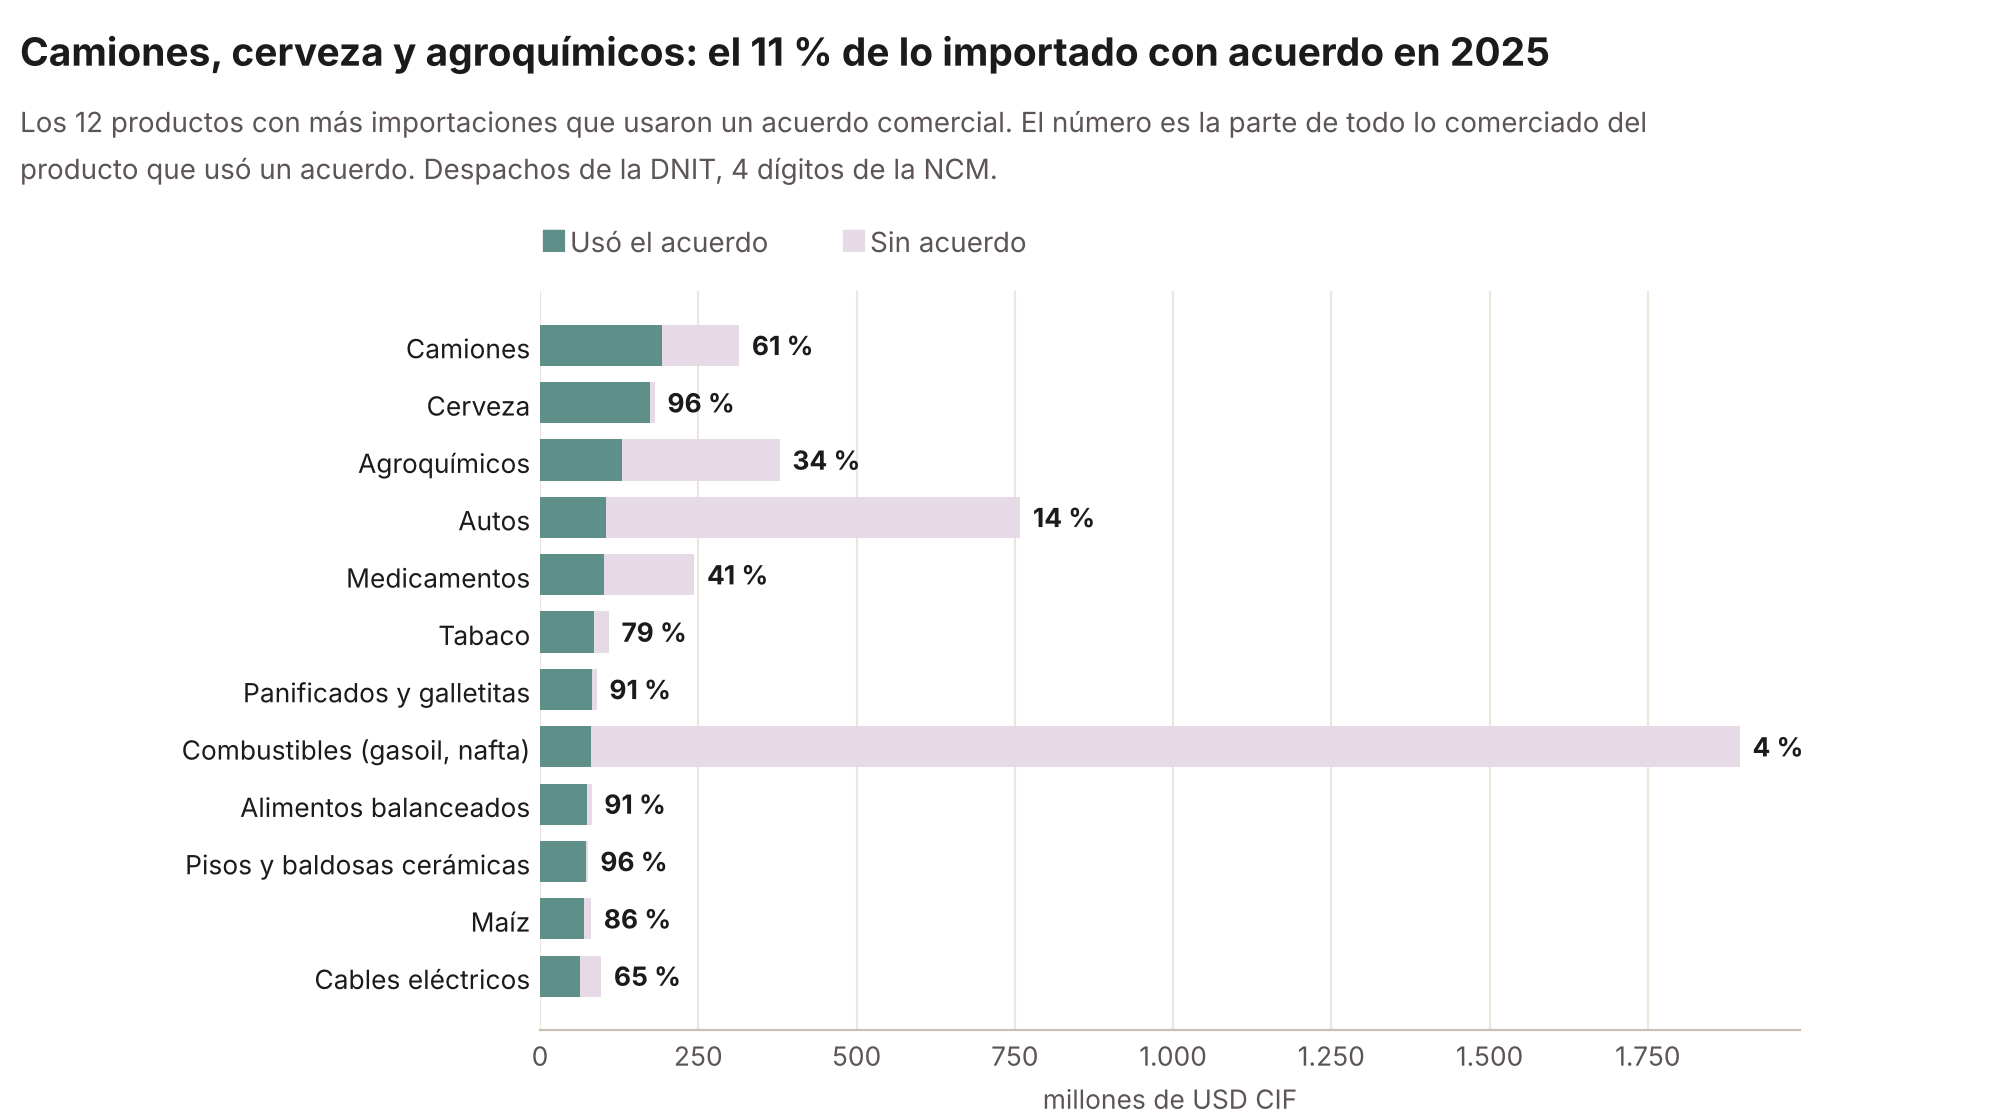
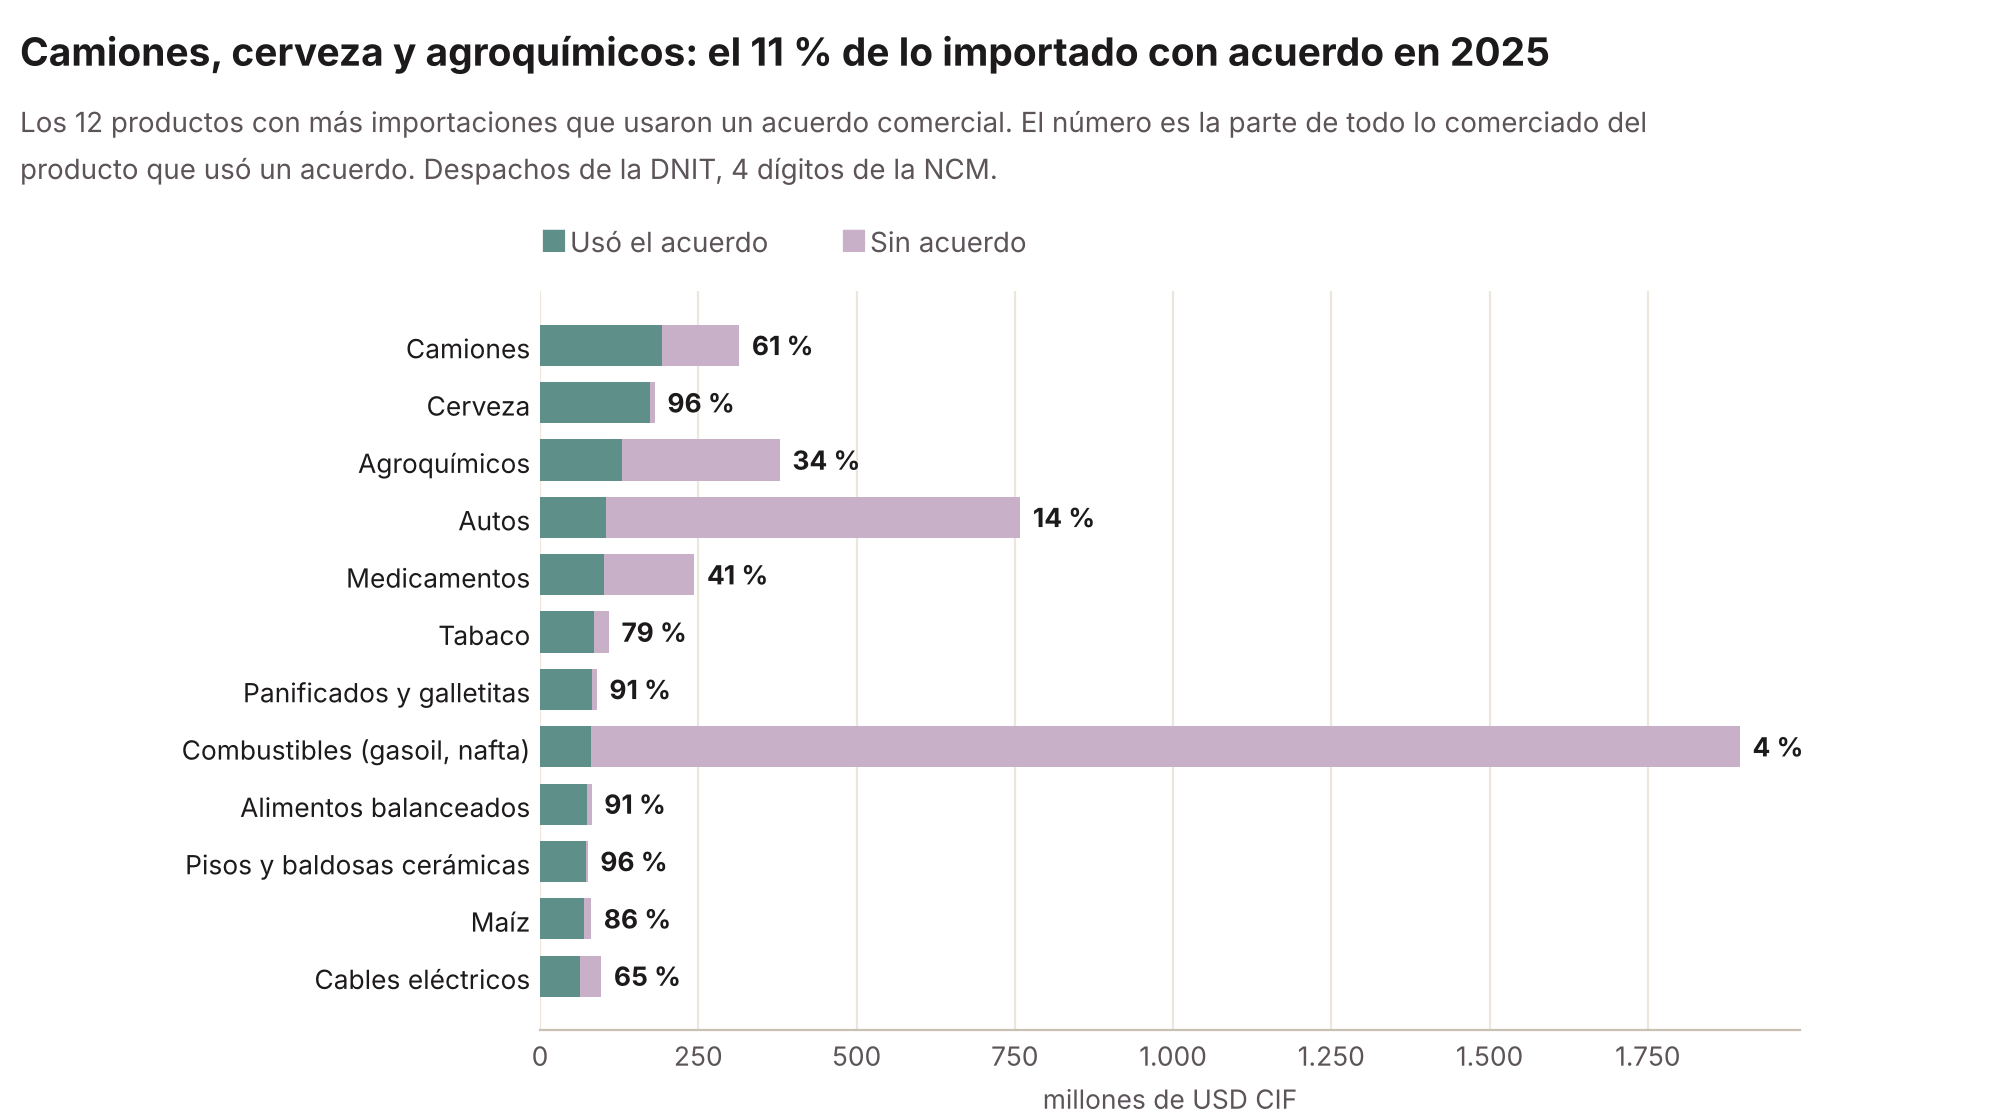
Gráfico de las fuentes en tres paneles contra el BCP; lila de 'sin acuerdo' más oscuro

diff --git a/docs/index.html b/docs/index.html
@@ -43,17 +43,17 @@
 <style>
 :root {
   --bg: #fdfaf3; --panel: #ffffff; --text: #1d1a1c; --text2: #5c5459; --line: #e9e1d3;
-  --s1: #5e8f88; --s2: #e6dae7; --s3: #774d78; --s4: #8db2ac; --accent: #3f6b65; --code: #f7f1e6; --link: #3f6b65; --btn: #5e8f88; --btntext: #08261f; --hero1: #b7d0cc; --hero2: #e6dae7;
+  --s1: #5e8f88; --s2: #c7b0c8; --s3: #774d78; --s4: #8db2ac; --accent: #3f6b65; --code: #f7f1e6; --link: #3f6b65; --btn: #5e8f88; --btntext: #08261f; --hero1: #b7d0cc; --hero2: #e6dae7;
 }
 @media (prefers-color-scheme: dark) {
   :root:not([data-theme="light"]) {
     --bg: #161314; --panel: #201b1d; --text: #f5eef1; --text2: #bfb3b8; --line: #3a2f33;
-    --s1: #5e8f88; --s2: #4a3a4d; --s3: #af8eb1; --s4: #b7d0cc; --accent: #8db2ac; --code: #2a2225; --link: #8db2ac; --btn: #5e8f88; --btntext: #08261f; --hero1: #24403c; --hero2: #3a2a3b;
+    --s1: #5e8f88; --s2: #6a546d; --s3: #af8eb1; --s4: #b7d0cc; --accent: #8db2ac; --code: #2a2225; --link: #8db2ac; --btn: #5e8f88; --btntext: #08261f; --hero1: #24403c; --hero2: #3a2a3b;
   }
 }
 :root[data-theme="dark"] {
   --bg: #161314; --panel: #201b1d; --text: #f5eef1; --text2: #bfb3b8; --line: #3a2f33;
-  --s1: #5e8f88; --s2: #4a3a4d; --s3: #af8eb1; --s4: #b7d0cc; --accent: #8db2ac; --code: #2a2225; --link: #8db2ac; --btn: #5e8f88; --btntext: #08261f; --hero1: #24403c; --hero2: #3a2a3b;
+  --s1: #5e8f88; --s2: #6a546d; --s3: #af8eb1; --s4: #b7d0cc; --accent: #8db2ac; --code: #2a2225; --link: #8db2ac; --btn: #5e8f88; --btntext: #08261f; --hero1: #24403c; --hero2: #3a2a3b;
 }
 * { box-sizing: border-box; }
 html { -webkit-text-size-adjust: 100%; }
@@ -142,6 +142,9 @@ footer { margin-top: 48px; padding: 28px 0 48px; border-top: 1px solid var(--lin
   .tw { overflow: visible; }
 }
 .contador[hidden] { display: none; }
+.paneles { display: grid; grid-template-columns: repeat(3, 1fr); gap: 8px; }
+@media (max-width: 760px) { .paneles { grid-template-columns: 1fr; } }
+.panel-tit { font-size: 14px; font-weight: 700; margin: 0 0 2px; }
 .contador { display: inline-block; margin: 12px 0 0; padding: 4px 12px; border-radius: 99px; background: var(--tag, #e6dae7); color: var(--tagtext, #4f3050); font-size: 13px; }
 .comentar { margin: 40px auto 0; max-width: 960px; padding: 0 16px; }
 .comentar .caja { border: 1.5px dashed #8db2ac; border-radius: 12px; padding: 18px 20px; }
@@ -335,14 +338,8 @@ footer { margin-top: 48px; padding: 28px 0 48px; border-top: 1px solid var(--lin
     <h2>Cinco series de cuatro instituciones cuentan casi lo mismo: los datos abiertos de aduanas son confiables</h2>
     <p>Las exportaciones de Paraguay se pueden medir con cinco series de cuatro instituciones: la DNIT, la VUE (Ministerio de Industria y Comercio), el BCP (con dos series: la mensual y la detallada por producto y país) y UN Comtrade. Sin la electricidad (que no pasa por la aduana), los despachos de la DNIT quedan entre el 94 % y el 101 % de las <strong>exportaciones registradas</strong> del BCP en todos los años (es decir, sin las reexportaciones, que el BCP publica aparte, y sin electricidad), y lo que los demás países declaran haber comprado a Paraguay (datos espejo) entre el 94 % y el 106 %. La VUE se aparta en 2022 por un error en sus archivos y, desde 2023, cubre menos. Además, la serie detallada del BCP por producto y país (1994–2023) coincide con lo que Paraguay informa a UN Comtrade en los 30 años, y con la DNIT en el total y en los productos. Los diez cruces de a pares entre las cinco fuentes, con las mayores diferencias y sus explicaciones, están en un Excel: <a href="datos/Cruces_5_fuentes_comercio_Paraguay.xlsx" download>Cruces de las 5 fuentes</a>.</p>
     <div class="card">
-      <div class="legend">
-        <span><span class="sw line" style="background:var(--text)"></span>BCP, exportaciones registradas</span>
-        <span><span class="sw line" style="background:var(--s1)"></span>DNIT, despachos</span>
-        <span><span class="sw line" style="background:var(--s3)"></span>VUE, certificados de origen</span>
-        <span><span class="sw line" style="background:var(--s4)"></span>Espejo, lo que declaran los socios</span>
-      </div>
-      <div id="chart2" role="img" aria-label="Gráfico de líneas que compara las exportaciones de Paraguay según el BCP, la DNIT, la VUE y los datos espejo, 2011 a 2026"></div>
-      <p class="note">Millones de USD, sin electricidad. DNIT, VUE y BCP en FOB; el espejo en CIF (incluye flete y seguro hasta el comprador). 2026*: enero a septiembre; el espejo de 2026 todavía no existe. En 2022 los archivos de la VUE tienen un error: las partes de calzado (partida 6406) vendidas a Brasil figuran con USD 1.078 millones en octubre y 2.943 millones en noviembre, con solo 57 y 42 toneladas, y los plásticos (partida 3904) con USD 230 millones y 183 toneladas. Por eso la VUE de 2022 supera al BCP. Fuentes: DNIT; VUE (origen de los datos: Ministerio de Industria y Comercio); BCP (SICEX); UN Comtrade. Datos: <a href="datos/utilizacion_por_anio.csv" download>CSV</a> · <a href="datos/utilizacion_por_anio.xlsx" download>Excel</a>. Elaboración propia.</p>
+      <div id="chart2" class="paneles" role="img" aria-label="Tres gráficos de líneas, 2011 a 2026: las exportaciones de Paraguay según la DNIT, los datos espejo y la VUE, cada una comparada con el BCP"><div id="chart2a"></div><div id="chart2b"></div><div id="chart2c"></div></div>
+      <p class="note">Línea gris: BCP, exportaciones registradas (la misma en los tres). Millones de USD, sin electricidad. DNIT, VUE y BCP en FOB; el espejo en CIF (incluye flete y seguro hasta el comprador). 2026*: enero a septiembre; el espejo de 2026 todavía no existe. En 2022 los archivos de la VUE tienen un error: las partes de calzado (partida 6406) vendidas a Brasil figuran con USD 1.078 millones en octubre y 2.943 millones en noviembre, con solo 57 y 42 toneladas, y los plásticos (partida 3904) con USD 230 millones y 183 toneladas. Por eso la VUE de 2022 supera al BCP. Fuentes: DNIT; VUE (origen de los datos: Ministerio de Industria y Comercio); BCP (SICEX); UN Comtrade. Datos: <a href="datos/utilizacion_por_anio.csv" download>CSV</a> · <a href="datos/utilizacion_por_anio.xlsx" download>Excel</a>. Elaboración propia.</p>
     </div>
     <div class="tw">
       <table id="tabla"></table>
@@ -481,14 +478,14 @@ function ejeX(f, xs) {
     el("text", {x: xs(i), y: f.h - 8, "text-anchor": "middle"}, f.svg).textContent = f.narrow ? "'" + anio(r).slice(2) : anio(r);
   });
 }
-function linea(f, xs, ys, g, color, guiones) {
+function linea(f, xs, ys, g, color, guiones, grosor = 2.5, radio = 3) {
   let tramo = [];
-  const pintar = () => { if (tramo.length > 1) el("polyline", {points: tramo.join(" "), fill: "none", stroke: color, "stroke-width": 2.5, "stroke-linejoin": "round", "stroke-dasharray": guiones || "none"}, f.svg); tramo = []; };
+  const pintar = () => { if (tramo.length > 1) el("polyline", {points: tramo.join(" "), fill: "none", stroke: color, "stroke-width": grosor, "stroke-linejoin": "round", "stroke-dasharray": guiones || "none"}, f.svg); tramo = []; };
   D.forEach((r, i) => {
     const v = g(r);
     if (v === null) { pintar(); return; }
     tramo.push(`${xs(i)},${ys(v)}`);
-    el("circle", {cx: xs(i), cy: ys(v), r: 3, fill: color}, f.svg);
+    if (radio) el("circle", {cx: xs(i), cy: ys(v), r: radio, fill: color}, f.svg);
   });
   pintar();
 }
@@ -517,17 +514,26 @@ function dibujar() {
     el("text", {x: f.W - f.m.r + 6, y: yp(p) + 4}, f.svg).textContent = p + "%";
   ejeX(f, xs);
 
-  // Gráfico 2: cuatro fuentes
-  f = marco("chart2", 290, false);
-  const max2 = 12500, bw2 = f.iw / D.length;
-  const xs2 = i => f.m.l + bw2 * (i + .5);
-  const ys2 = v => f.m.t + f.ih - v / max2 * f.ih;
-  ejeY(f, max2, 2500);
-  linea(f, xs2, ys2, r => r[5], "var(--s4)", "6 4");
-  linea(f, xs2, ys2, r => r[3], "var(--s3)");
-  linea(f, xs2, ys2, r => r[1] + r[2], "var(--s1)");
-  linea(f, xs2, ys2, r => r[4], "var(--text)");
-  ejeX(f, xs2);
+  // Gráfico 2: tres paneles, cada fuente contra el BCP (gris). Paneles chicos en vez de cuatro líneas encimadas.
+  [["chart2a", "DNIT, despachos", r => r[1] + r[2], "var(--s1)"],
+   ["chart2b", "Espejo, lo que declaran los socios", r => r[5], "var(--accent)"],
+   ["chart2c", "VUE, certificados de origen", r => r[3], "var(--s3)"]].forEach(([id, nombre, g, color]) => {
+    const host = document.getElementById(id);
+    host.innerHTML = "";
+    const tit = document.createElement("p"); tit.className = "panel-tit"; tit.style.color = color;
+    tit.innerHTML = nombre + ' <span style="color:var(--text2);font-weight:400">vs. BCP</span>';
+    host.appendChild(tit);
+    const caja = document.createElement("div"); caja.id = id + "-g"; host.appendChild(caja);
+    const f2 = marco(id + "-g", 210, false);
+    f2.narrow = f2.W < 420;
+    const max2 = 12500, bw2 = f2.iw / D.length;
+    const xs2 = i => f2.m.l + bw2 * (i + .5);
+    const ys2 = v => f2.m.t + f2.ih - v / max2 * f2.ih;
+    ejeY(f2, max2, 2500);
+    linea(f2, xs2, ys2, r => r[4], "var(--text2)", null, 1.5, 0);
+    linea(f2, xs2, ys2, g, color, null, 3.5, 3);
+    ejeX(f2, xs2);
+  });
 }
 dibujar();
 let t; addEventListener("resize", () => { clearTimeout(t); t = setTimeout(dibujar, 150); });
@@ -598,7 +604,7 @@ document.getElementById("tabla").innerHTML =
     const max = Math.max(...p.t.map(v => v || 0)) || 1, bw = W / C.anios.length;
     C.anios.forEach((an, k) => {
       const tt = p.t[k] || 0, cc = p.a[k] || 0, x = k * bw + bw * .15, w = bw * .7, base = H - 18;
-      const hT = tt / max * (H - 30), hC = cc / max * (H - 30), op = k === i ? 1 : .45;
+      const hT = tt / max * (H - 30), hC = cc / max * (H - 30), op = k === i ? 1 : .6;
       el("rect", {x, y: base - hT, width: w, height: hT - hC, fill: "var(--s2)", opacity: op, rx: 2}, svg);
       el("rect", {x, y: base - hC, width: w, height: hC, fill: "var(--s1)", opacity: op, rx: 2}, svg);
       const lejos = Math.abs(k - i) > (W < 500 ? 3 : 1);  // que las etiquetas no se pisen
@@ -664,7 +670,7 @@ document.getElementById("tabla").innerHTML =
     const max = Math.max(...p.t.map(v => v || 0)) || 1, bw = W / P.anios.length;
     P.anios.forEach((an, k) => {
       const tt = p.t[k] || 0, cc = p.a[k] || 0, x = k * bw + bw * .15, w = bw * .7, base = H - 18;
-      const hT = tt / max * (H - 28), hC = cc / max * (H - 28), o = k === i ? 1 : .45;
+      const hT = tt / max * (H - 28), hC = cc / max * (H - 28), o = k === i ? 1 : .6;
       el("rect", {x, y: base - hT, width: w, height: Math.max(hT - hC, 0), fill: "var(--s2)", opacity: o, rx: 2}, svg);
       el("rect", {x, y: base - hC, width: w, height: hC, fill: "var(--s1)", opacity: o, rx: 2}, svg);
       const lejos = Math.abs(k - i) > (W < 500 ? 3 : 1);

diff --git a/docs/aduana.html b/docs/aduana.html
@@ -17,17 +17,17 @@
 <style>
 :root {
   --bg: #fdfaf3; --panel: #ffffff; --text: #1d1a1c; --text2: #5c5459; --line: #e9e1d3;
-  --s1: #5e8f88; --s2: #e6dae7; --s3: #774d78; --s4: #8db2ac; --accent: #3f6b65; --code: #f7f1e6; --link: #3f6b65; --btn: #5e8f88; --btntext: #08261f; --hero1: #b7d0cc; --hero2: #e6dae7;
+  --s1: #5e8f88; --s2: #c7b0c8; --s3: #774d78; --s4: #8db2ac; --accent: #3f6b65; --code: #f7f1e6; --link: #3f6b65; --btn: #5e8f88; --btntext: #08261f; --hero1: #b7d0cc; --hero2: #e6dae7;
 }
 @media (prefers-color-scheme: dark) {
   :root:not([data-theme="light"]) {
     --bg: #161314; --panel: #201b1d; --text: #f5eef1; --text2: #bfb3b8; --line: #3a2f33;
-    --s1: #5e8f88; --s2: #4a3a4d; --s3: #af8eb1; --s4: #b7d0cc; --accent: #8db2ac; --code: #2a2225; --link: #8db2ac; --btn: #5e8f88; --btntext: #08261f; --hero1: #24403c; --hero2: #3a2a3b;
+    --s1: #5e8f88; --s2: #6a546d; --s3: #af8eb1; --s4: #b7d0cc; --accent: #8db2ac; --code: #2a2225; --link: #8db2ac; --btn: #5e8f88; --btntext: #08261f; --hero1: #24403c; --hero2: #3a2a3b;
   }
 }
 :root[data-theme="dark"] {
   --bg: #161314; --panel: #201b1d; --text: #f5eef1; --text2: #bfb3b8; --line: #3a2f33;
-  --s1: #5e8f88; --s2: #4a3a4d; --s3: #af8eb1; --s4: #b7d0cc; --accent: #8db2ac; --code: #2a2225; --link: #8db2ac; --btn: #5e8f88; --btntext: #08261f; --hero1: #24403c; --hero2: #3a2a3b;
+  --s1: #5e8f88; --s2: #6a546d; --s3: #af8eb1; --s4: #b7d0cc; --accent: #8db2ac; --code: #2a2225; --link: #8db2ac; --btn: #5e8f88; --btntext: #08261f; --hero1: #24403c; --hero2: #3a2a3b;
 }
 * { box-sizing: border-box; }
 html { -webkit-text-size-adjust: 100%; }

diff --git a/docs/figuras_productos.py b/docs/figuras_productos.py
@@ -25,9 +25,9 @@ IMG = RAIZ / "docs" / "img"
 FONDO = {"light": "#ffffff", "dark": "#0d1117"}
 TEMAS = {
     "light": dict(texto="#1d1a1c", texto2="#5c5459", grilla="#ece6dc", eje="#c9c0b3",
-                  con="#5e8f88", socios="#e6dae7", rosa="#774d78"),
+                  con="#5e8f88", socios="#c7b0c8", rosa="#774d78"),
     "dark": dict(texto="#f5eef1", texto2="#bfb3b8", grilla="#2a2427", eje="#4a4044",
-                 con="#5e8f88", socios="#4a3a4d", rosa="#af8eb1"),
+                 con="#5e8f88", socios="#6a546d", rosa="#af8eb1"),
 }
 # Nombres cortos y en lenguaje común de las partidas más frecuentes (config/nombres_cortos_ncm.csv)
 CORTOS = pd.read_csv(RAIZ / "config" / "nombres_cortos_ncm.csv", dtype=str).set_index("partida")["nombre_corto"].to_dict()

diff --git a/docs/figuras_cruce.py b/docs/figuras_cruce.py
@@ -27,9 +27,9 @@ IMG.mkdir(parents=True, exist_ok=True)
 FONDO = {"light": "#ffffff", "dark": "#0d1117"}
 TEMAS = {
     "light": dict(texto="#1d1a1c", texto2="#5c5459", grilla="#ece6dc", eje="#c9c0b3",
-                  verde="#5e8f88", verde2="#3f6b65", rosa="#774d78", rosa_claro="#e6dae7", menta="#8db2ac"),
+                  verde="#5e8f88", verde2="#3f6b65", rosa="#774d78", rosa_claro="#c7b0c8", menta="#8db2ac"),
     "dark": dict(texto="#f5eef1", texto2="#bfb3b8", grilla="#2a2427", eje="#4a4044",
-                 verde="#5e8f88", verde2="#8db2ac", rosa="#af8eb1", rosa_claro="#4a3a4d", menta="#b7d0cc"),
+                 verde="#5e8f88", verde2="#8db2ac", rosa="#af8eb1", rosa_claro="#6a546d", menta="#b7d0cc"),
 }
 
 
